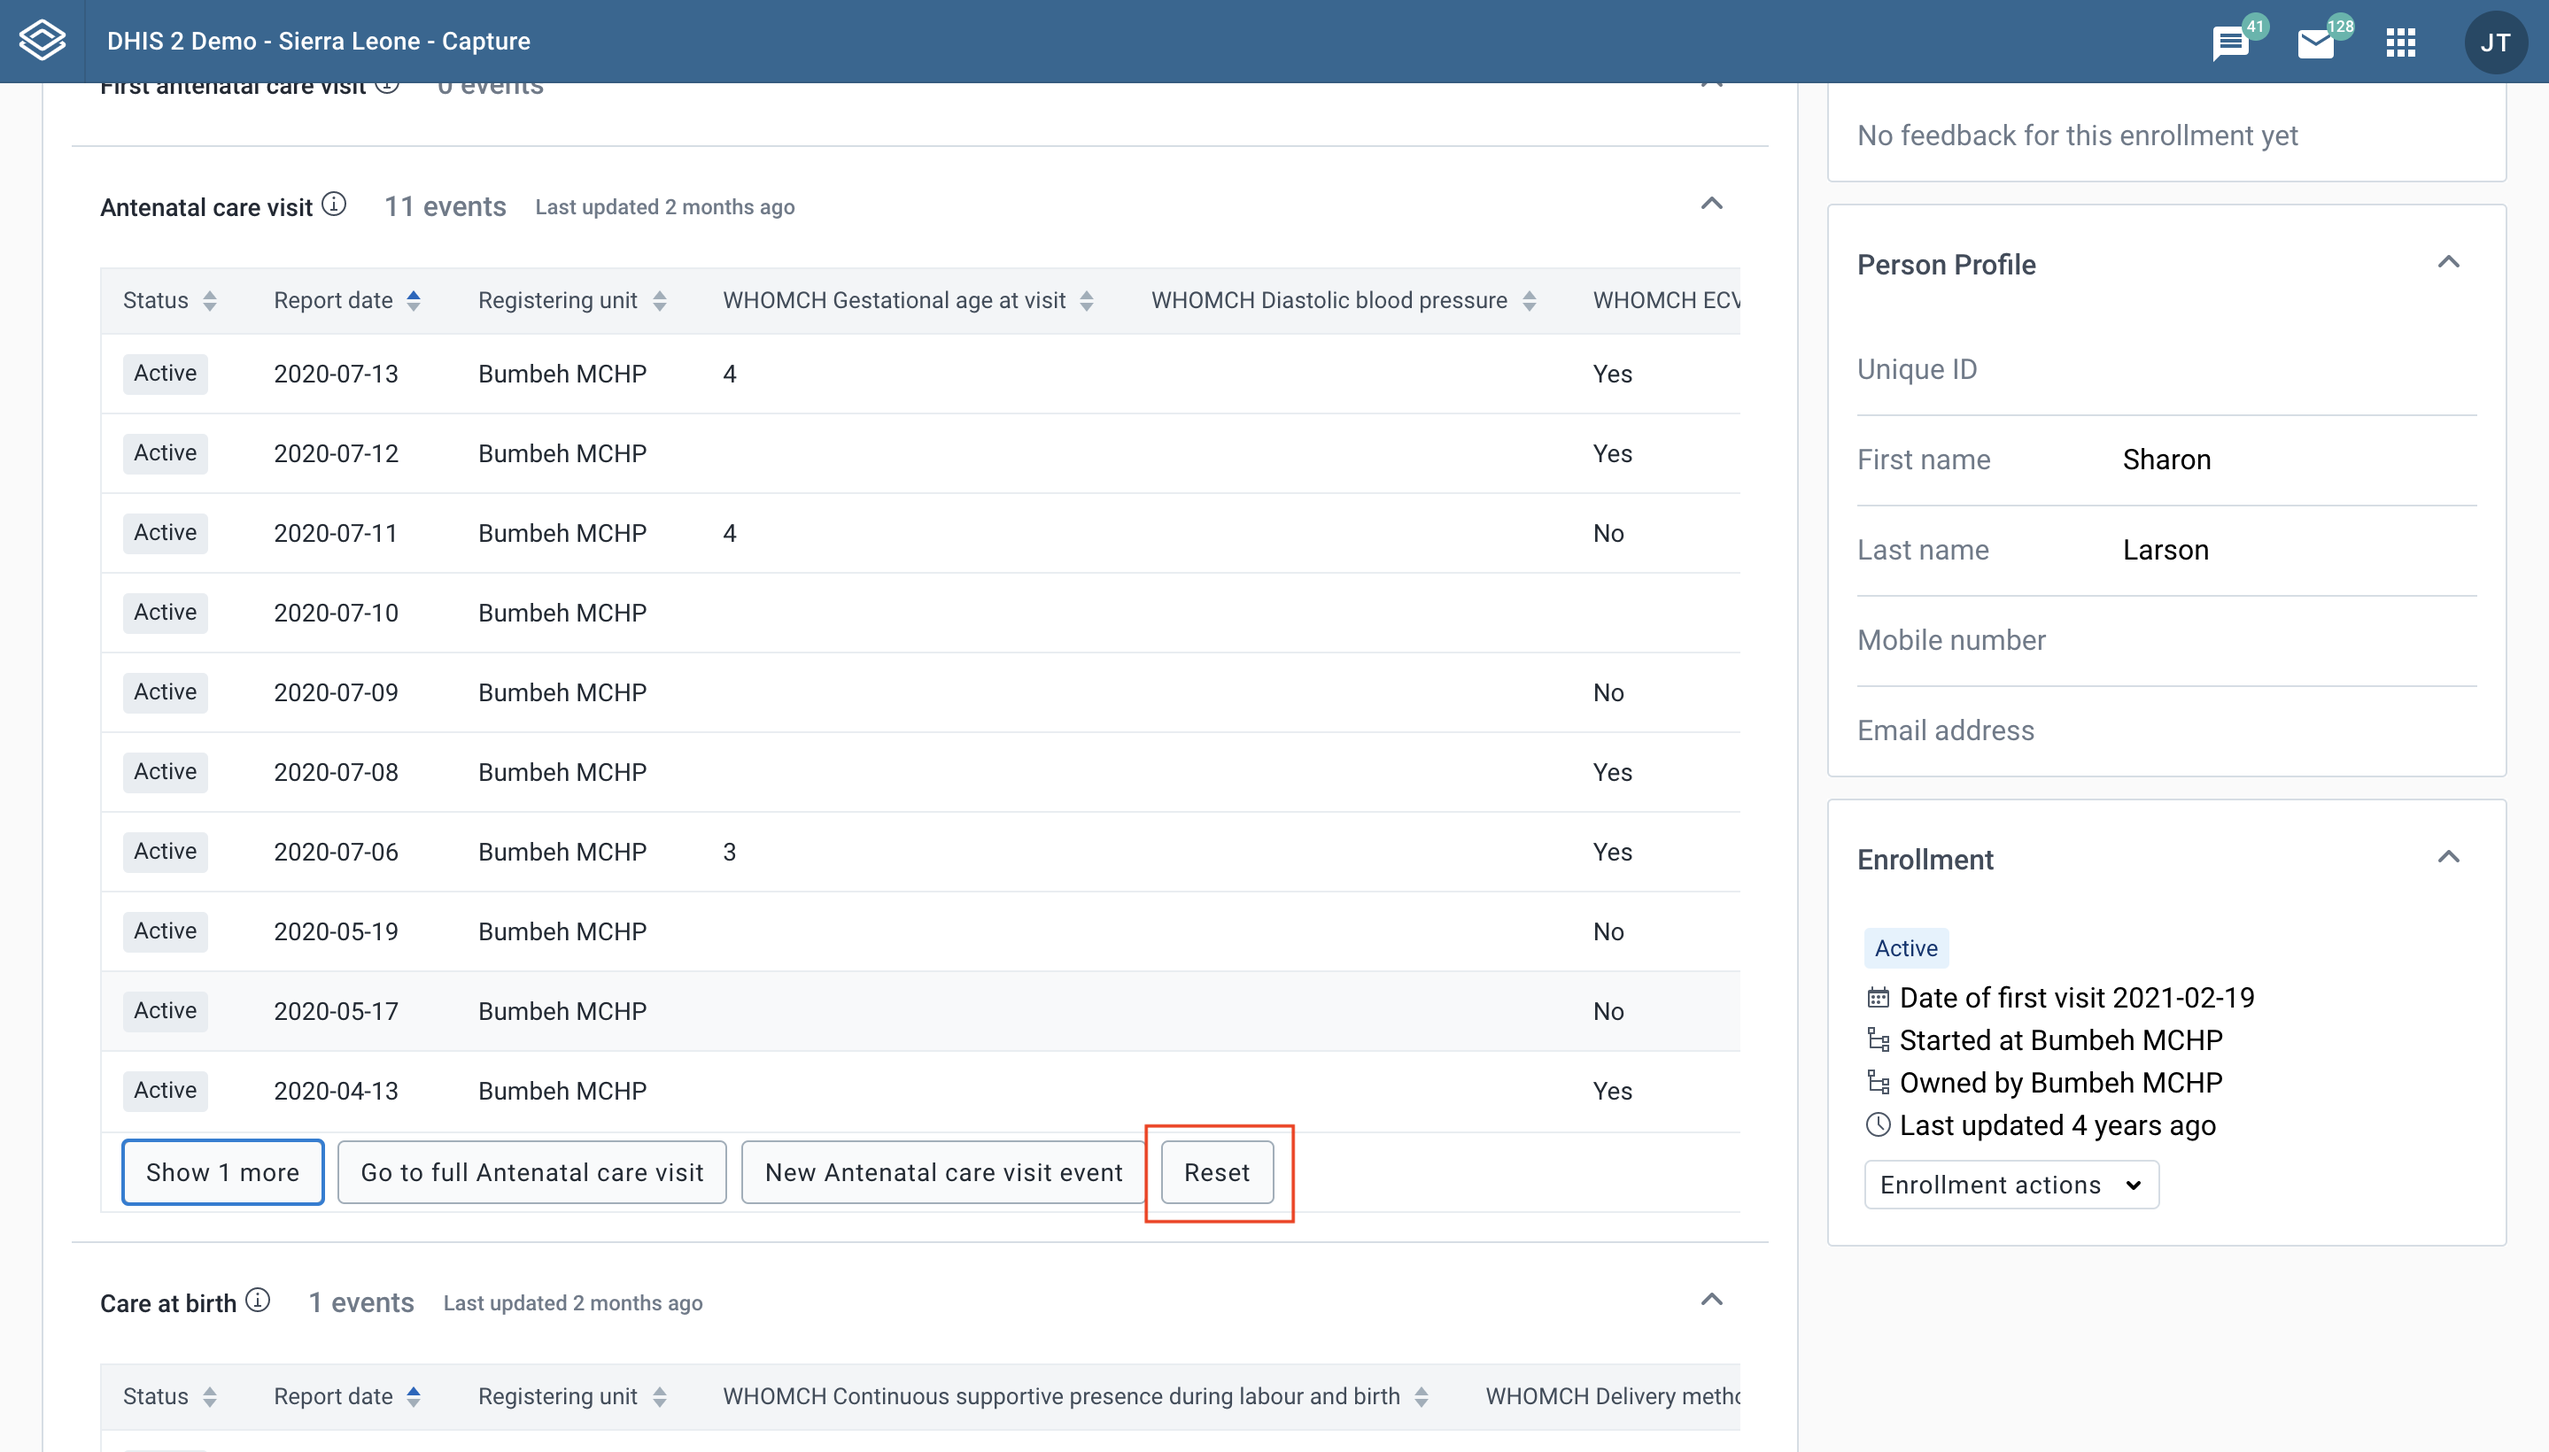
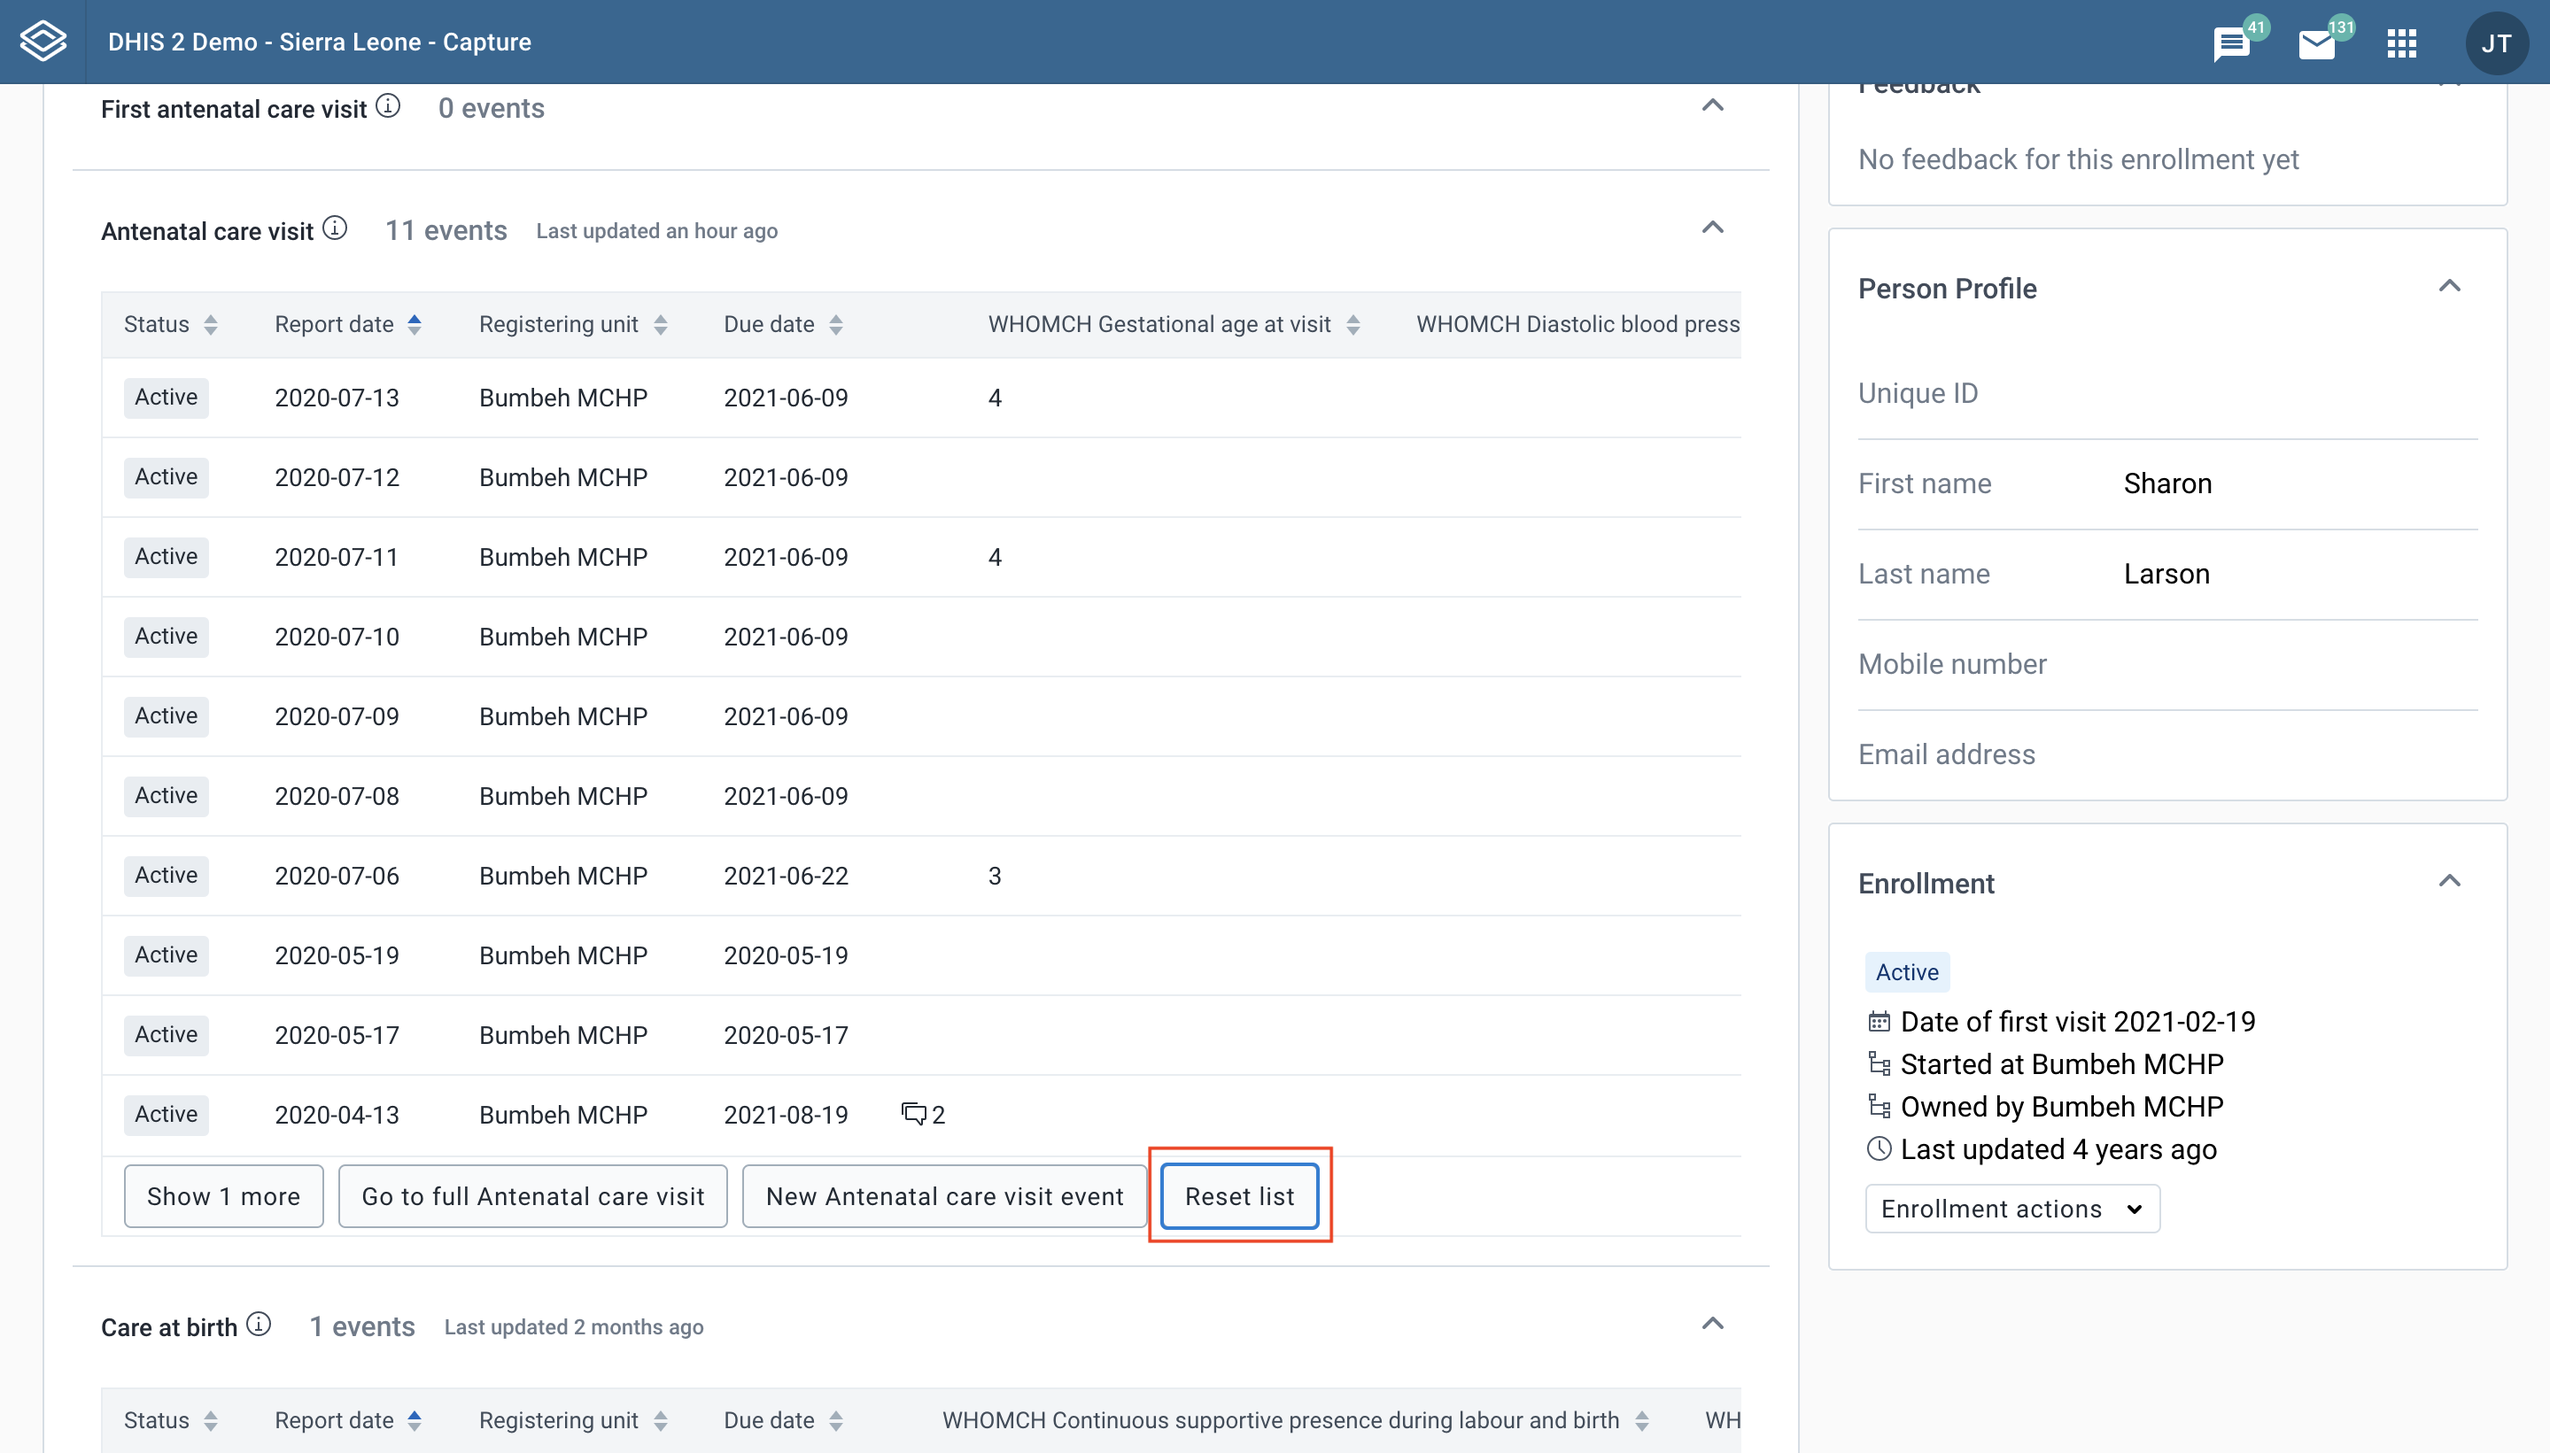
docs: [DHIS2-10222] rename reset to reset list

diff --git a/src/user/using-the-capture-app.md b/src/user/using-the-capture-app.md
@@ -888,7 +888,7 @@ In case there are more than 5 events in the list, only the first 5 are shown. Yo
 
 ![](resources/images/capture_app/enrollment-dash-stages-events-05.png)
 
-If you want to collapse events, you can use  **Reset** button which will return the table back to the default sorting and initial 5 events.
+If you want to collapse events, you can use  **Reset list** button which will return the table back to the default sorting and initial 5 events.
 
 ![](resources/images/capture_app/enrollment-dash-stages-events-07.png)
 
